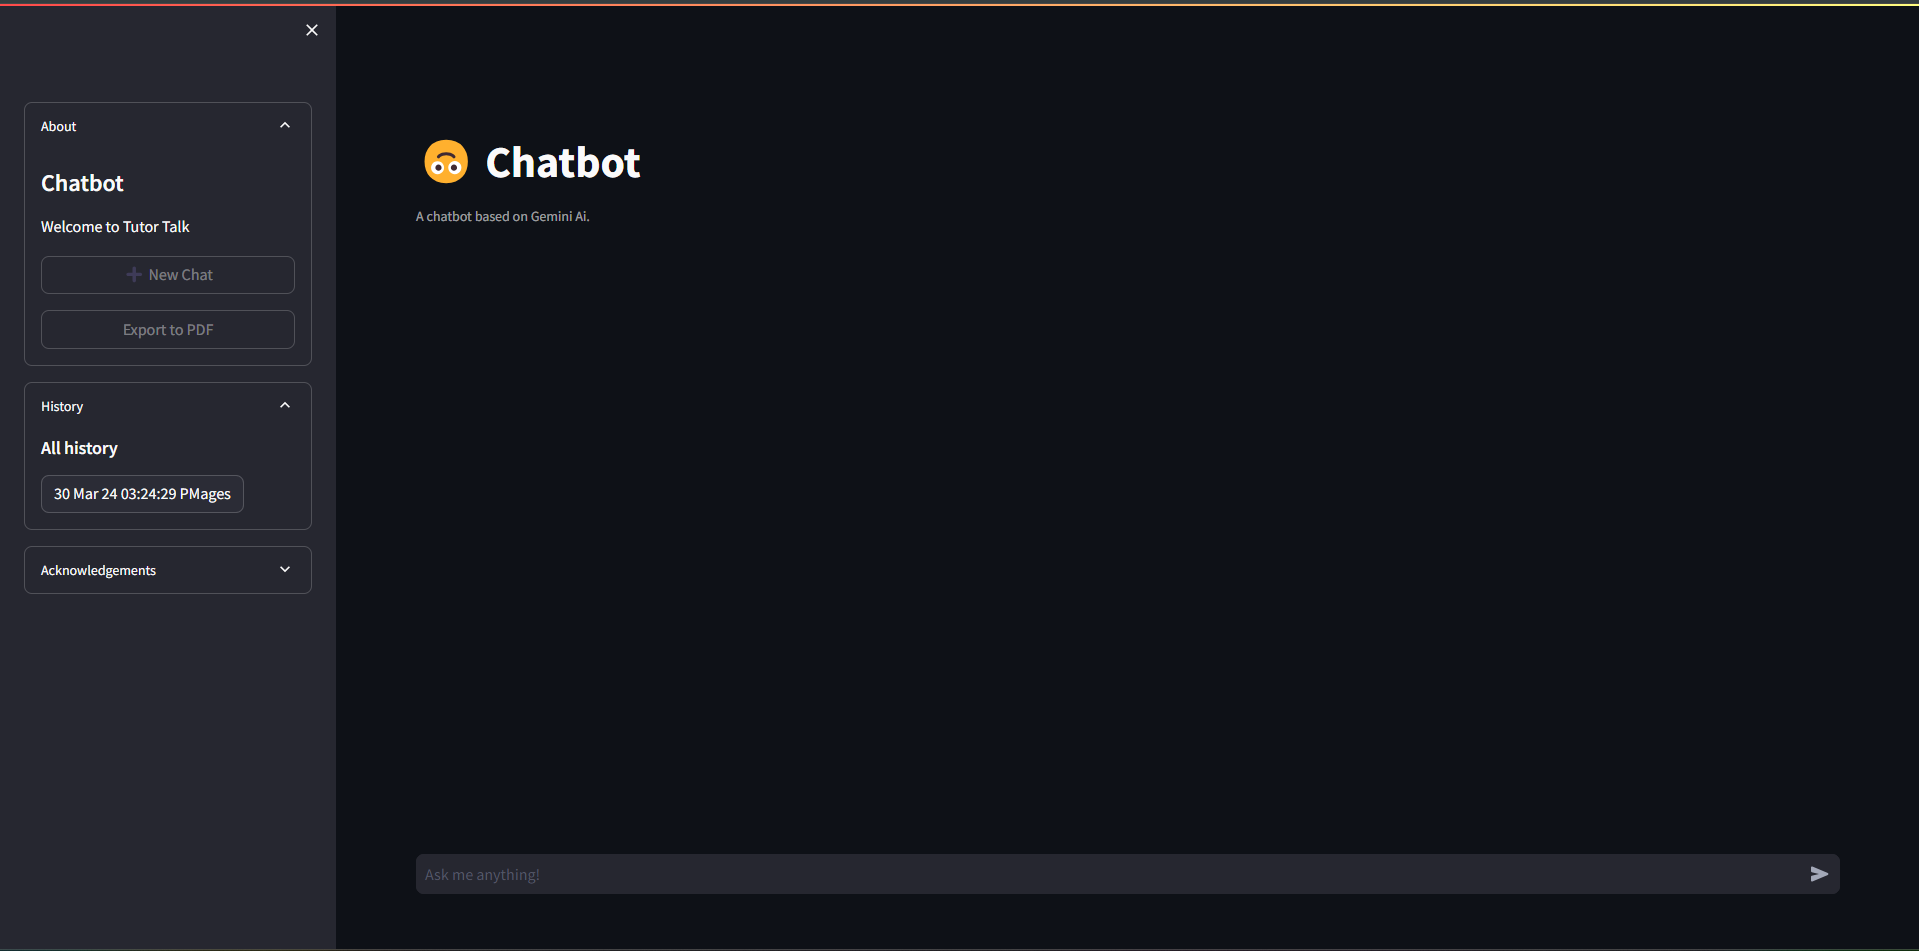
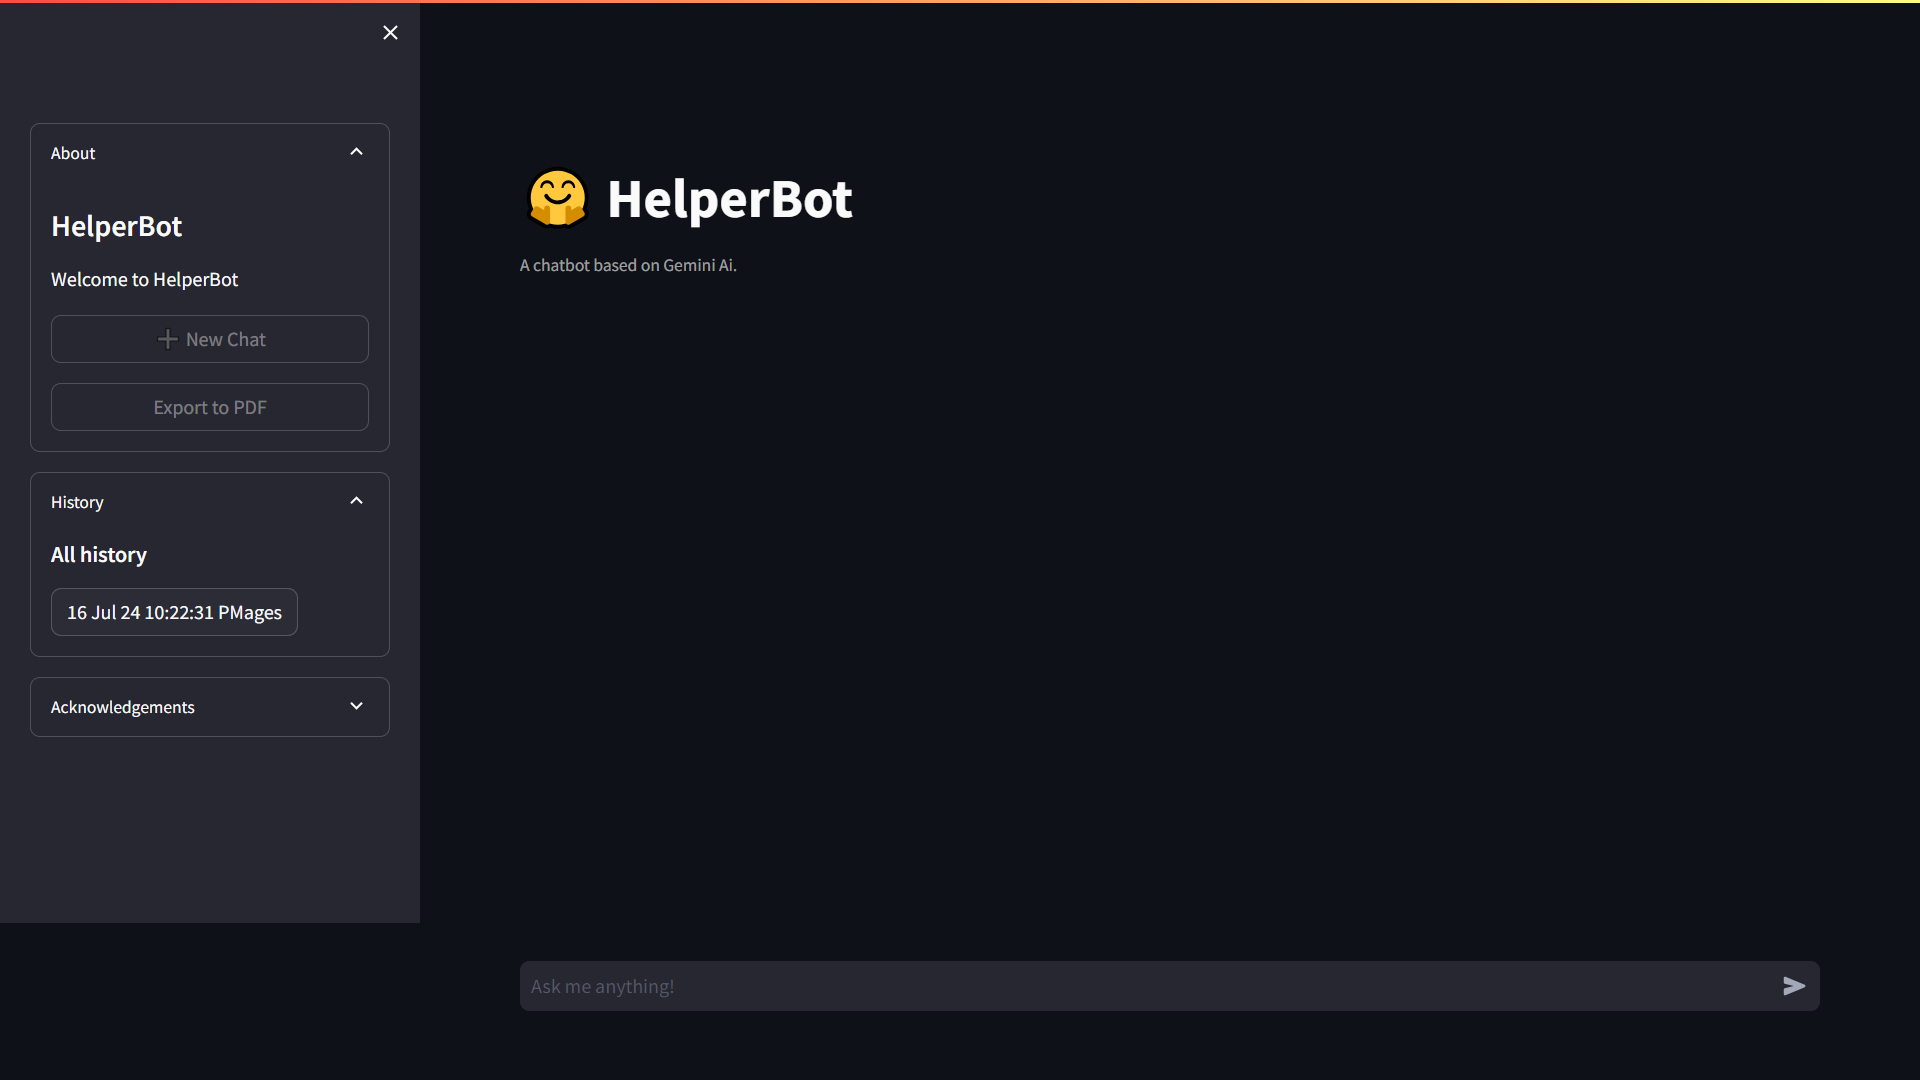
Modifying

diff --git a/src/project/__init__.py b/src/project/__init__.py
@@ -17,7 +17,7 @@ if __name__ == '__main__':
     emoji = Emoji().get_random_emoji()
 
     # Set the Streamlit app configuration
-    st.set_page_config(page_title='Tutor Talk', page_icon=f'{emoji}', layout='wide')
+    st.set_page_config(page_title='HelperBot', page_icon=f'{emoji}', layout='wide')
 
     database: ChatRepositoryImp = create_or_update_session(
         State.CHAT_REPOSITORY.value,
@@ -66,7 +66,7 @@ if __name__ == '__main__':
 
     # Render the main container
     with main_container:
-        st.title(f'{emoji} Chatbot')
+        st.title(f'{emoji} HelperBot')
         st.caption('A chatbot based on Gemini Ai.')
 
         # Display the chat messages

diff --git a/src/project/Main.py b/src/project/Main.py
@@ -23,8 +23,8 @@ def about_section(container: st.container, database: ChatRepositoryImp, export: 
         export (Export): Export object
     """
     with st.expander("About", expanded=True) as e:
-        st.title('Chatbot')
-        st.write('Welcome to Tutor Talk')
+        st.title('HelperBot')
+        st.write('Welcome to HelperBot')
         st.button('➕ New Chat', key='new-chat', on_click=database.create_new_session, use_container_width=True,
                   disabled=len(database.get_current().get_messages()) == 0
                   )

diff --git a/src/project/database/Session.py b/src/project/database/Session.py
@@ -118,7 +118,7 @@ def convert_to_markdown(session: Session) -> str:
     Returns:
         str: Markdown text
     """
-    markdown = '# ' + 'Tutor Talk\n\n'
+    markdown = '# ' + 'HelperBot\n\n'
     markdown += f'## {session.get_session_name()}\n\n'
     for message in session.get_messages():
         if message.get_role() == Role.MODEL:

diff --git a/README.md b/README.md
@@ -4,7 +4,7 @@ Welcome to **HelperBot**, your interactive learning companion powered by **Gemin
 
 ![Screenshot](docs/assets/Screenshot.png)
 
-<!-- Here is the link to the <a href="https://tutor-talk.streamlit.app/" target="_blank">HelperBot</a> web application. -->
+<!-- Here is the link to the <a href="https://HelperBot.streamlit.app/" target="_blank">HelperBot</a> web application. -->
 
 ## Features
 
